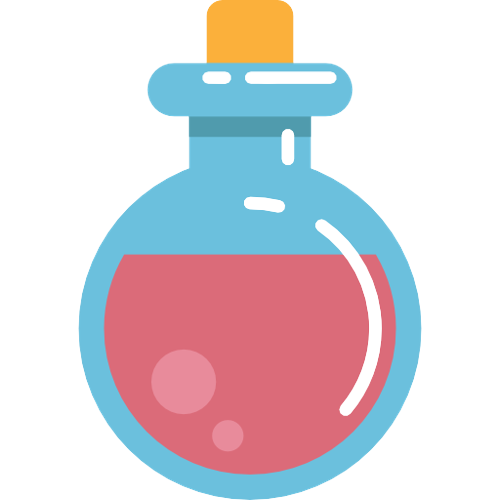
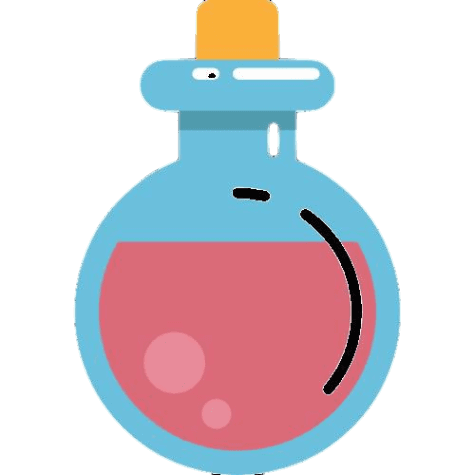
Added teleports

diff --git a/HackerMode++/index.js b/HackerMode++/index.js
@@ -5,10 +5,13 @@ const highScoreElement = document.querySelector(".high-score")
 const timerElement = document.querySelector(".timer")
 const livesElement = document.querySelector(".lives")
 
+let grid_x =20, grid_y = 20;
 let gameOver = false;
 let foodX, foodY;
 let snakeBody = [];
 let food = [];
+let powerup_exist =0;
+let power_x, power_y;
 let snakeX = 10, snakeY = 10;
 let velocityX = 0, velocityY =0;
 let setIntervalID;
@@ -20,7 +23,7 @@ let gameStart = 0;
 let timerId;
 let htmlMarkup = "";
 let lives =3;
-let speed = 125;
+let speed = 180;
 let word_array = [
     ['D', 'E', 'L', 'T','A'],
     ['T','A', 'S', 'K'],
@@ -32,6 +35,10 @@ let game_pause = 0;
 let color_sequence = [];
 let audio_eatfood = new Audio("Audio/eat-food_DcmYIN6Y.mp3");
 let grow = 0;
+let t1_x,t1_y;
+let t2_x, t2_y;
+
+
 let highScore = localStorage.getItem("high-score") || 0;
 highScoreElement.innerText = `High Score = ${highScore}`;
 
@@ -42,7 +49,8 @@ livesElement.innerText = `LIVES : ${lives}`;
 
 const handleGameOver = () => {
     lives--;
-    if(lives){
+    if(lives){  //Checks how many lives user has
+        // If user still has lives, everything except score is resetted and the game restarts
         clearInterval(setIntervalID);
         clearInterval(timerId);
         let x1 =1;
@@ -51,12 +59,14 @@ const handleGameOver = () => {
         let y2 =0;
         velocityX =1;
         velocityY = 0;
+        powerup_exist =0;
         htmlMarkup ="";
         playBoard.innerHTML = htmlMarkup;
         snakeBody.length =0;
         food.length =0;
         snakeX = 10;
         snakeY = 10;
+        currentTime = 15;
         snakeBody[0] = [snakeX,snakeY];
         snakeBody.push([snakeX-x1, snakeY-y1]);
         snakeBody.push([snakeX-x2, snakeY -y2]);    //Loads the food coordinates into the array  
@@ -72,9 +82,12 @@ const handleGameOver = () => {
         spawnFood();
         gameOver = false; 
         livesElement.innerText = `LIVES : ${lives}`;
+        speed = 180;
+        spawn_teleport();
         timerId = setInterval(countDown,1000)
         setIntervalID = setInterval(initGame,speed);
     }else{
+        //If no lives remaining, game ends with an alert
         clearInterval(setIntervalID);
         clearInterval(timerId);
         alert("GAME OVERR!!!");
@@ -84,7 +97,7 @@ const handleGameOver = () => {
 
 }
 
-function countDown(){
+function countDown(){  // Implementing a countdown timer
     currentTime --;
     timerElement.innerText = `TIMER = ${currentTime}`; 
     if(currentTime === 0){
@@ -95,25 +108,25 @@ function countDown(){
 }
 
 
-function getRandomInt(max) {
+function getRandomInt(max) { //Used to fetch myself any random number
     return Math.floor(Math.random() * max);
 }
 
-const spawn_colors = () =>{
+const spawn_colors = () =>{     //Picks a sequence from word_array and then adds the sequence in color_sequence
     color_sequence.length =0;
-    let i = getRandomInt(4);
+    let i = getRandomInt(word_array.length -1);
     for(let j =0; j < word_array[i].length; j++){
         color_sequence.push(word_array[i][j]);
     }
 }
 
 
-const spawnFood= () => {
+const spawnFood= () => {        //Once a sequence is selected, this function spawns it on the grid
     let cond = 0;
     for(let i =0; i < color_sequence.length; i++){
         cond =1;
-        foodX = Math.floor(Math.random() * 20)+1;
-        foodY = Math.floor(Math.random() * 20)+1;
+        foodX = Math.floor(Math.random() * grid_x)+1;
+        foodY = Math.floor(Math.random() * grid_y)+1;
         //Checking if the new food spawn doesnt collide with snake body or other foods
         for(let j=0; j < snakeBody.length; j++){
             if (snakeBody[j][0] !== foodX && snakeBody[j][1] !== foodY ){
@@ -139,6 +152,7 @@ const spawnFood= () => {
           
 }
 
+//Pause is implemented by pressing 'p' key
 const pausegame = () => {
     clearInterval(timerId);
     clearInterval(setIntervalID);
@@ -150,17 +164,12 @@ const unpausegame = () => {
     game_pause =0;
 }
 
+//Used to change the direction of the snake
 const changeDirection = (e) =>{
     let x1 =1;
     let x2= 2;
     let y1 =0;
     let y2 =0;
-
-
-    if(e.key ==='k'){
-        snakeX = 17;
-        snakeY = 3;
-    }
 
     if(e.key === 'p'){
         if(game_pause === 0){
@@ -202,20 +211,22 @@ const changeDirection = (e) =>{
             gameStart++;
         }
     }
-    
-    if(gameStart===1){   //Game starts here
+    //This function allows user to start the game by pressing any arrow key
+    if(gameStart===1){   
         gameStart++;
         snakeBody[0] = [snakeX,snakeY];
         snakeBody.push([snakeX-x1, snakeY-y1]);
         snakeBody.push([snakeX-x2, snakeY -y2]);    //Loads the food coordinates into the array   
         spawn_colors();
-        spawnFood();     
+        spawnFood();
+        spawn_teleport();     
         timerId = setInterval(countDown,1000)
         setIntervalID = setInterval(initGame,speed);
     
     }
 }
 
+//Changing directions using buttons
 const button_changeDirection = (a) =>{
     let x1 =1;
     let x2= 2;
@@ -257,8 +268,77 @@ const button_changeDirection = (a) =>{
     }   
 }
 
+//Implementing powerup
+const powerup = () => {
+    let d = getRandomInt(20); //This decides whether a powerup will be spawned or not
+    if(d > 5 && d < 12){
+        let cond =1;
+        while(cond){
+            cond =0;
+            power_x =getRandomInt(grid_x)
+            power_y = getRandomInt(grid_y)
+            for(let i =0; i < food.length; i++){
+                if(JSON.stringify(power_x) === JSON.stringify(food[i][0]) && JSON.stringify(power_y) === JSON.stringify(food[i][1])){
+                    cond =1;
+                    break;
+                }
+            }
+            for(let i =0; i < snakeBody.length; i++){
+                if(JSON.stringify(power_x) === JSON.stringify(snakeBody[i][0]) && JSON.stringify(power_y) === JSON.stringify(snakeBody[i][1])){
+                    cond =1;
+                    break;
+                }
+            }
+        }
+        htmlMarkup += `<div class ="buff_shrink" style ="grid-area: ${power_y}/${power_x}">P1</div> `
+        playBoard.innerHTML = htmlMarkup;
+
+        powerup_exist=1;
+    }
+    
+} 
+
+//Spawning teleport at the start of a game;
+
+const spawn_teleport = () => {
+    let cond =1;
+    while (cond){
+        cond = 1;
+        while(cond){
+            cond =0;
+            t1_x = getRandomInt(grid_x);
+            t1_y = getRandomInt(grid_y);
+            t2_x = getRandomInt(grid_x);
+            t2_y = getRandomInt(grid_y);
+            for(let i =0; i < food.length; i++){
+                if(JSON.stringify(t1_x) === JSON.stringify(food[i][0]) && JSON.stringify(t1_y) === JSON.stringify(food[i][1])){
+                    cond =1;
+                    break;
+                }else if (JSON.stringify(t2_x) === JSON.stringify(food[i][0]) && JSON.stringify(t2_y) === JSON.stringify(food[i][1])){
+                    cond =1;
+                    break;
+                }
+            }
+            for(let i =0; i < snakeBody.length; i++){
+                if(JSON.stringify(t1_x) === JSON.stringify(snakeBody[i][0]) && JSON.stringify(t1_y) === JSON.stringify(snakeBody[i][1])){
+                    cond =1;
+                    break;
+                }else if(JSON.stringify(t2_x) === JSON.stringify(snakeBody[i][0]) && JSON.stringify(t2_y) === JSON.stringify(snakeBody[i][1])){
+                    cond =1;
+                    break;
+                }
+            }
+            if(t1_x === t2_x && t1_y === t2_y){
+                cond =1;
+            }
+        }
+    }
+    
+}
 
 
+
+//Main game function starts here
 const initGame = () => {
 
     if (gameOver) return handleGameOver();
@@ -269,6 +349,18 @@ const initGame = () => {
     }
 
     htmlMarkup = "";
+    
+
+    //Adding teleport icons
+    htmlMarkup += `<div class ="teleport_icon" style ="grid-area: ${t1_y}/${t1_x}">T1</div> `;
+    htmlMarkup += `<div class ="teleport_icon" style ="grid-area: ${t2_y}/${t2_x}">T2</div> `;
+
+    playBoard.innerHTML = htmlMarkup;
+
+    if(powerup_exist){
+        htmlMarkup += `<div class ="buff_shrink" style ="grid-area: ${power_y}/${power_x}">P1</div> `
+        playBoard.innerHTML = htmlMarkup;
+    }
     //Spawning food every iteration
     for(let i =0; i < food.length; i++){
         if(i ===0){
@@ -280,6 +372,15 @@ const initGame = () => {
     } 
     playBoard.innerHTML = htmlMarkup;
     
+    //Checking if snake goes into a telport;
+    if(snakeX === t1_x && snakeY === t1_y){
+        snakeX = t2_x;
+        snakeY = t2_y;
+    }else if(snakeX === t2_x && snakeY === t2_y){
+        snakeX =t1_x;
+        snakeY =t1_y;
+    }
+
     //Showing the color sequence
     let color_markup = "";
     for(let i =0 ; i < color_sequence.length; i++){
@@ -294,6 +395,19 @@ const initGame = () => {
             index = i;
         }
     }
+
+    //Checking if snake ate a powerup
+    if(powerup_exist && snakeX===power_x && snakeY === power_y ){
+        powerup_exist =0;
+        currentTime +=2;
+        audio_eatfood.play();
+        let count =3;
+        while(count && snakeBody.length>3){
+            snakeBody.pop();
+            count--;
+        }
+    }
+
     //If eaten, then it will remove it from food array and grow the snake 
     if(food_eaten){ 
         if(index!==0){
@@ -303,7 +417,22 @@ const initGame = () => {
         
         audio_eatfood.play();
         
-
+        if(speed > 150){
+            speed -= 10;
+            clearInterval(setIntervalID);
+            setIntervalID = setInterval(initGame,speed);
+        }
+        else if(speed > 120){
+            speed -= 7;
+            clearInterval(setIntervalID);
+            setIntervalID = setInterval(initGame,speed);
+        }
+        else if(speed >90){
+            speed -=5;
+            clearInterval(setIntervalID);
+            setIntervalID = setInterval(initGame,speed);
+        }
+        console.log(speed);
         food.splice(index,1)
         color_sequence.splice(index,1);   //Remove food from array
         snakeBody.push([snakeX, snakeY]);  //Snake body grows at the position of the food
@@ -316,12 +445,18 @@ const initGame = () => {
         scoreElement.innerText = `Score = ${score}`;
         highScoreElement.innerText = `High Score = ${highScore}`;
         food_eaten=0;
+
+        //Checking if powerup is spawned or not
+        if(powerup_exist === 0){
+            powerup();
+        }
     
     }
 
-    if(food.length===0){
+    if(food.length===0){ //If user completes a sequence of food
         currentTime += 5;
         grow = 3;
+        powerup_exist = 0;
         spawn_colors();
         spawnFood();
         for(let i =0; i < food.length; i++){
@@ -342,7 +477,7 @@ const initGame = () => {
     snakeBody[0] = [snakeX,snakeY];
     
     //If snake crashes into a wall
-    if(snakeX < 0 || snakeX >20 || snakeY < 0 || snakeY > 20){
+    if(snakeX < 0 || snakeX >grid_x || snakeY < 0 || snakeY > grid_y){
         gameOver = true;
         handleGameOver();
     }
@@ -362,11 +497,6 @@ const initGame = () => {
     playBoard.innerHTML = htmlMarkup;
 
 }
-
-
-// htmlMarkup+=`<div style="grid-area: 4/5; background-color: #FF0000;" > </div>`;
-// playBoard.innerHTML = htmlMarkup;
-
 
 document.addEventListener("keydown", changeDirection);
 

diff --git a/HackerMode++/style.css b/HackerMode++/style.css
@@ -54,7 +54,7 @@ body{
 }
 
 .playground{
-    background-color: rgb(143, 255, 161);
+    background-color: rgb(141, 255, 162);
     width: 100%;
     height: 100%;
     display: grid;
@@ -163,9 +163,21 @@ body{
   }
   
   
+.buff_shrink{
+    color: transparent;
+    background-image: url(Pictures/Potion.png);
+    background-size: cover;
+    background-position: center;
+  
+}
 
-
-
+.teleport_icon{
+    color: transparent;
+    background-image: url(Pictures/Teleport.png);
+    background-size: contain;
+    background-repeat: no-repeat;
+    background-position: center;
+}   
 
   
   
